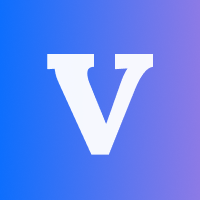
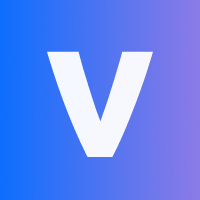
Update docs

Changed region(s): [[0.27, 0.24, 0.78, 0.81], [0.21, 0.24, 0.39, 0.36]]

diff --git a/docusaurus/src/css/custom.css b/docusaurus/src/css/custom.css
@@ -1,8 +1,11 @@
-@import url('https://fonts.googleapis.com/css2?family=Lora:ital,wght@0,400..700;1,400..700&family=Outfit:wght@100..900&display=swap');
+@import url('https://fonts.googleapis.com/css2?family=Oxygen:wght@300;400;500;600;700&display=swap');
+@import url('https://fonts.googleapis.com/css2?family=Ubuntu:wght@300;400;500;600;700&display=swap');
 
 :root {
+  --ifm-font-family-base: 'Ubuntu', sans-serif;
+
   --color-sapphire: #1E2B52;
-  --color-ultramarine: #0D6EFD;
+  --color-ultramarine: #6366f1;
   --color-aurora-teal: #00C9B1;
   --color-amethyst: #8C7AE6;
   --color-champagne: #F4D69D;
@@ -13,8 +16,6 @@
   --gradient-sunset: linear-gradient(135deg, var(--color-coral) 0%, var(--color-champagne) 100%);
   --gradient-northern: linear-gradient(165deg, var(--color-night) 0%, var(--color-sapphire) 40%, #003A52 100%);
   --gradient-frosted: linear-gradient(135deg, rgba(255, 255, 255, 0.7) 0%, rgba(194, 249, 239, 0.7) 100%);
-
-  --ifm-font-family-base: 'Outfit', sans-serif;
 
   --ifm-background-color: #f8f9ff;
   --ifm-color-primary: var(--color-ultramarine);
@@ -41,6 +42,7 @@
   --ifm-toc-padding-vertical: 0.75rem;
   --ifm-table-cell-padding: 1rem;
   --ifm-code-font-size: 95%;
+  --ifm-leading-desktop: 1.35;
 }
 
 /* For readability concerns, you should choose a lighter palette in dark mode. */

diff --git a/docusaurus/src/pages/index.tsx b/docusaurus/src/pages/index.tsx
@@ -12,7 +12,7 @@ function HomepageHeader() {
 
   return (
     <header className={styles.mainScreen}>
-      <h1 className={styles.title}>vevet</h1>
+      <h1 className={styles.title}>vevet.js</h1>
       
       <p className={styles.subtitle}>{siteConfig.tagline}</p>
 

diff --git a/docusaurus/src/pages/index.module.css b/docusaurus/src/pages/index.module.css
@@ -39,10 +39,9 @@
 }
 
 .title {
-  font-family: 'Lora', serif;
   font-weight: 700;
   font-size: 6rem;
-  line-height: 1;
+  line-height: 1.35;
   margin-bottom: var(--space-md);
   background: var(--gradient-cosmic);
   -webkit-background-clip: text;

diff --git a/docusaurus/docusaurus.config.ts b/docusaurus/docusaurus.config.ts
@@ -43,8 +43,8 @@ const config: Config = {
 
     navbar: {
       logo: {
-        alt: 'Vevet Logo',
-        src: 'img/vevet-logo.svg',
+        alt: 'vevet.js logo',
+        src: 'img/vevet-logo-ub.svg',
       },
       items: [
         {

diff --git a/docusaurus/docs/intro.md b/docusaurus/docs/intro.md
@@ -6,7 +6,7 @@ sidebar_position: -1000
 
 ## Introduction
 
-**Vevet.js** is a flexible client-side JavaScript library for creative web development.
+Vevet.js is a flexible client-side JavaScript library for creative web development. Build stunning interactive experiences with&nbsp;a&nbsp;comprehensive toolkit of components and utilities.
 
 The library consists of:
 
